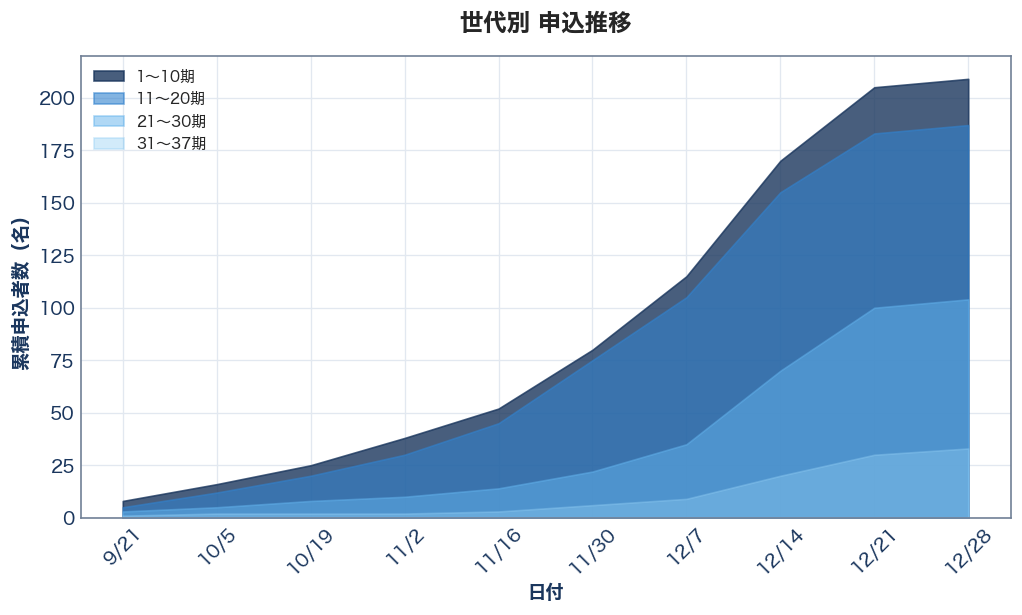
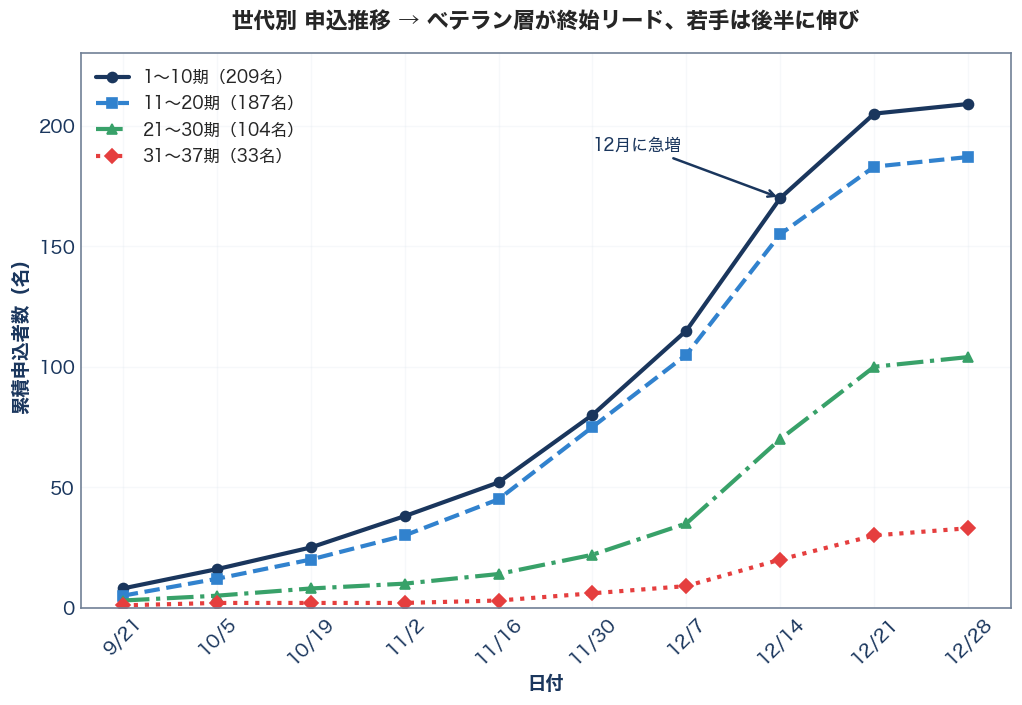
fix: 申込推移グラフを積み上げ面グラフから折れ線グラフに変更
積み上げ面グラフでは1〜10期が小さく見えてしまう問題を修正。
各世代の申込推移を個別の折れ線で明確に表示。

diff --git a/generate_charts.py b/generate_charts.py
@@ -1115,10 +1115,10 @@ def chart_bubble_evaluation():
     save_figure(fig, 'bubble_evaluation.png')
 
 # ===========================================
-# 24. エリアチャート（申込の累積推移）
+# 24. 折れ線グラフ（世代別申込推移）
 # ===========================================
 def chart_application_area():
-    """申込の累積推移（エリアチャート、世代別）"""
+    """申込の累積推移（折れ線グラフ、世代別）"""
     weeks = ['9/21', '10/5', '10/19', '11/2', '11/16', '11/30', '12/7', '12/14', '12/21', '12/28']
 
     # 世代別の累積データ（概算）
@@ -1127,19 +1127,30 @@ def chart_application_area():
     gen21_30 = [3, 5, 8, 10, 14, 22, 35, 70, 100, 104]
     gen31_37 = [1, 2, 2, 2, 3, 6, 9, 20, 30, 33]
 
-    fig, ax = plt.subplots(figsize=(10, 5))
+    fig, ax = plt.subplots(figsize=(10, 6))
 
-    ax.fill_between(weeks, gen1_10, alpha=0.8, label='1〜10期', color=COLORS['primary'])
-    ax.fill_between(weeks, gen11_20, alpha=0.6, label='11〜20期', color=COLORS['secondary'])
-    ax.fill_between(weeks, gen21_30, alpha=0.5, label='21〜30期', color='#63B3ED')
-    ax.fill_between(weeks, gen31_37, alpha=0.4, label='31〜37期', color='#90CDF4')
+    # 折れ線グラフで各世代を独立表示
+    ax.plot(weeks, gen1_10, 'o-', linewidth=2.5, markersize=6, label='1〜10期（209名）',
+            color=COLORS['primary'])
+    ax.plot(weeks, gen11_20, 's--', linewidth=2.5, markersize=6, label='11〜20期（187名）',
+            color=COLORS['secondary'])
+    ax.plot(weeks, gen21_30, '^-.', linewidth=2.5, markersize=6, label='21〜30期（104名）',
+            color=COLORS['success'])
+    ax.plot(weeks, gen31_37, 'D:', linewidth=2.5, markersize=6, label='31〜37期（33名）',
+            color=COLORS['accent'])
 
     ax.set_xlabel('日付', fontsize=11, fontweight='bold')
     ax.set_ylabel('累積申込者数（名）', fontsize=11, fontweight='bold')
-    ax.set_title('世代別 申込推移', fontsize=14, fontweight='bold', pad=15)
-    ax.legend(loc='upper left', fontsize=9)
-    ax.set_ylim(0, 220)
+    ax.set_title('世代別 申込推移 → ベテラン層が終始リード、若手は後半に伸び', fontsize=13, fontweight='bold', pad=15)
+    ax.legend(loc='upper left', fontsize=10)
+    ax.set_ylim(0, 230)
+    ax.grid(True, alpha=0.3)
     plt.xticks(rotation=45)
+
+    # 後半の伸びを注記
+    ax.annotate('12月に急増', xy=(7, 170), xytext=(5, 190),
+               fontsize=10, color=COLORS['primary'],
+               arrowprops=dict(arrowstyle='->', color=COLORS['primary'], lw=1.5))
 
     save_figure(fig, 'application_area.png')
 
